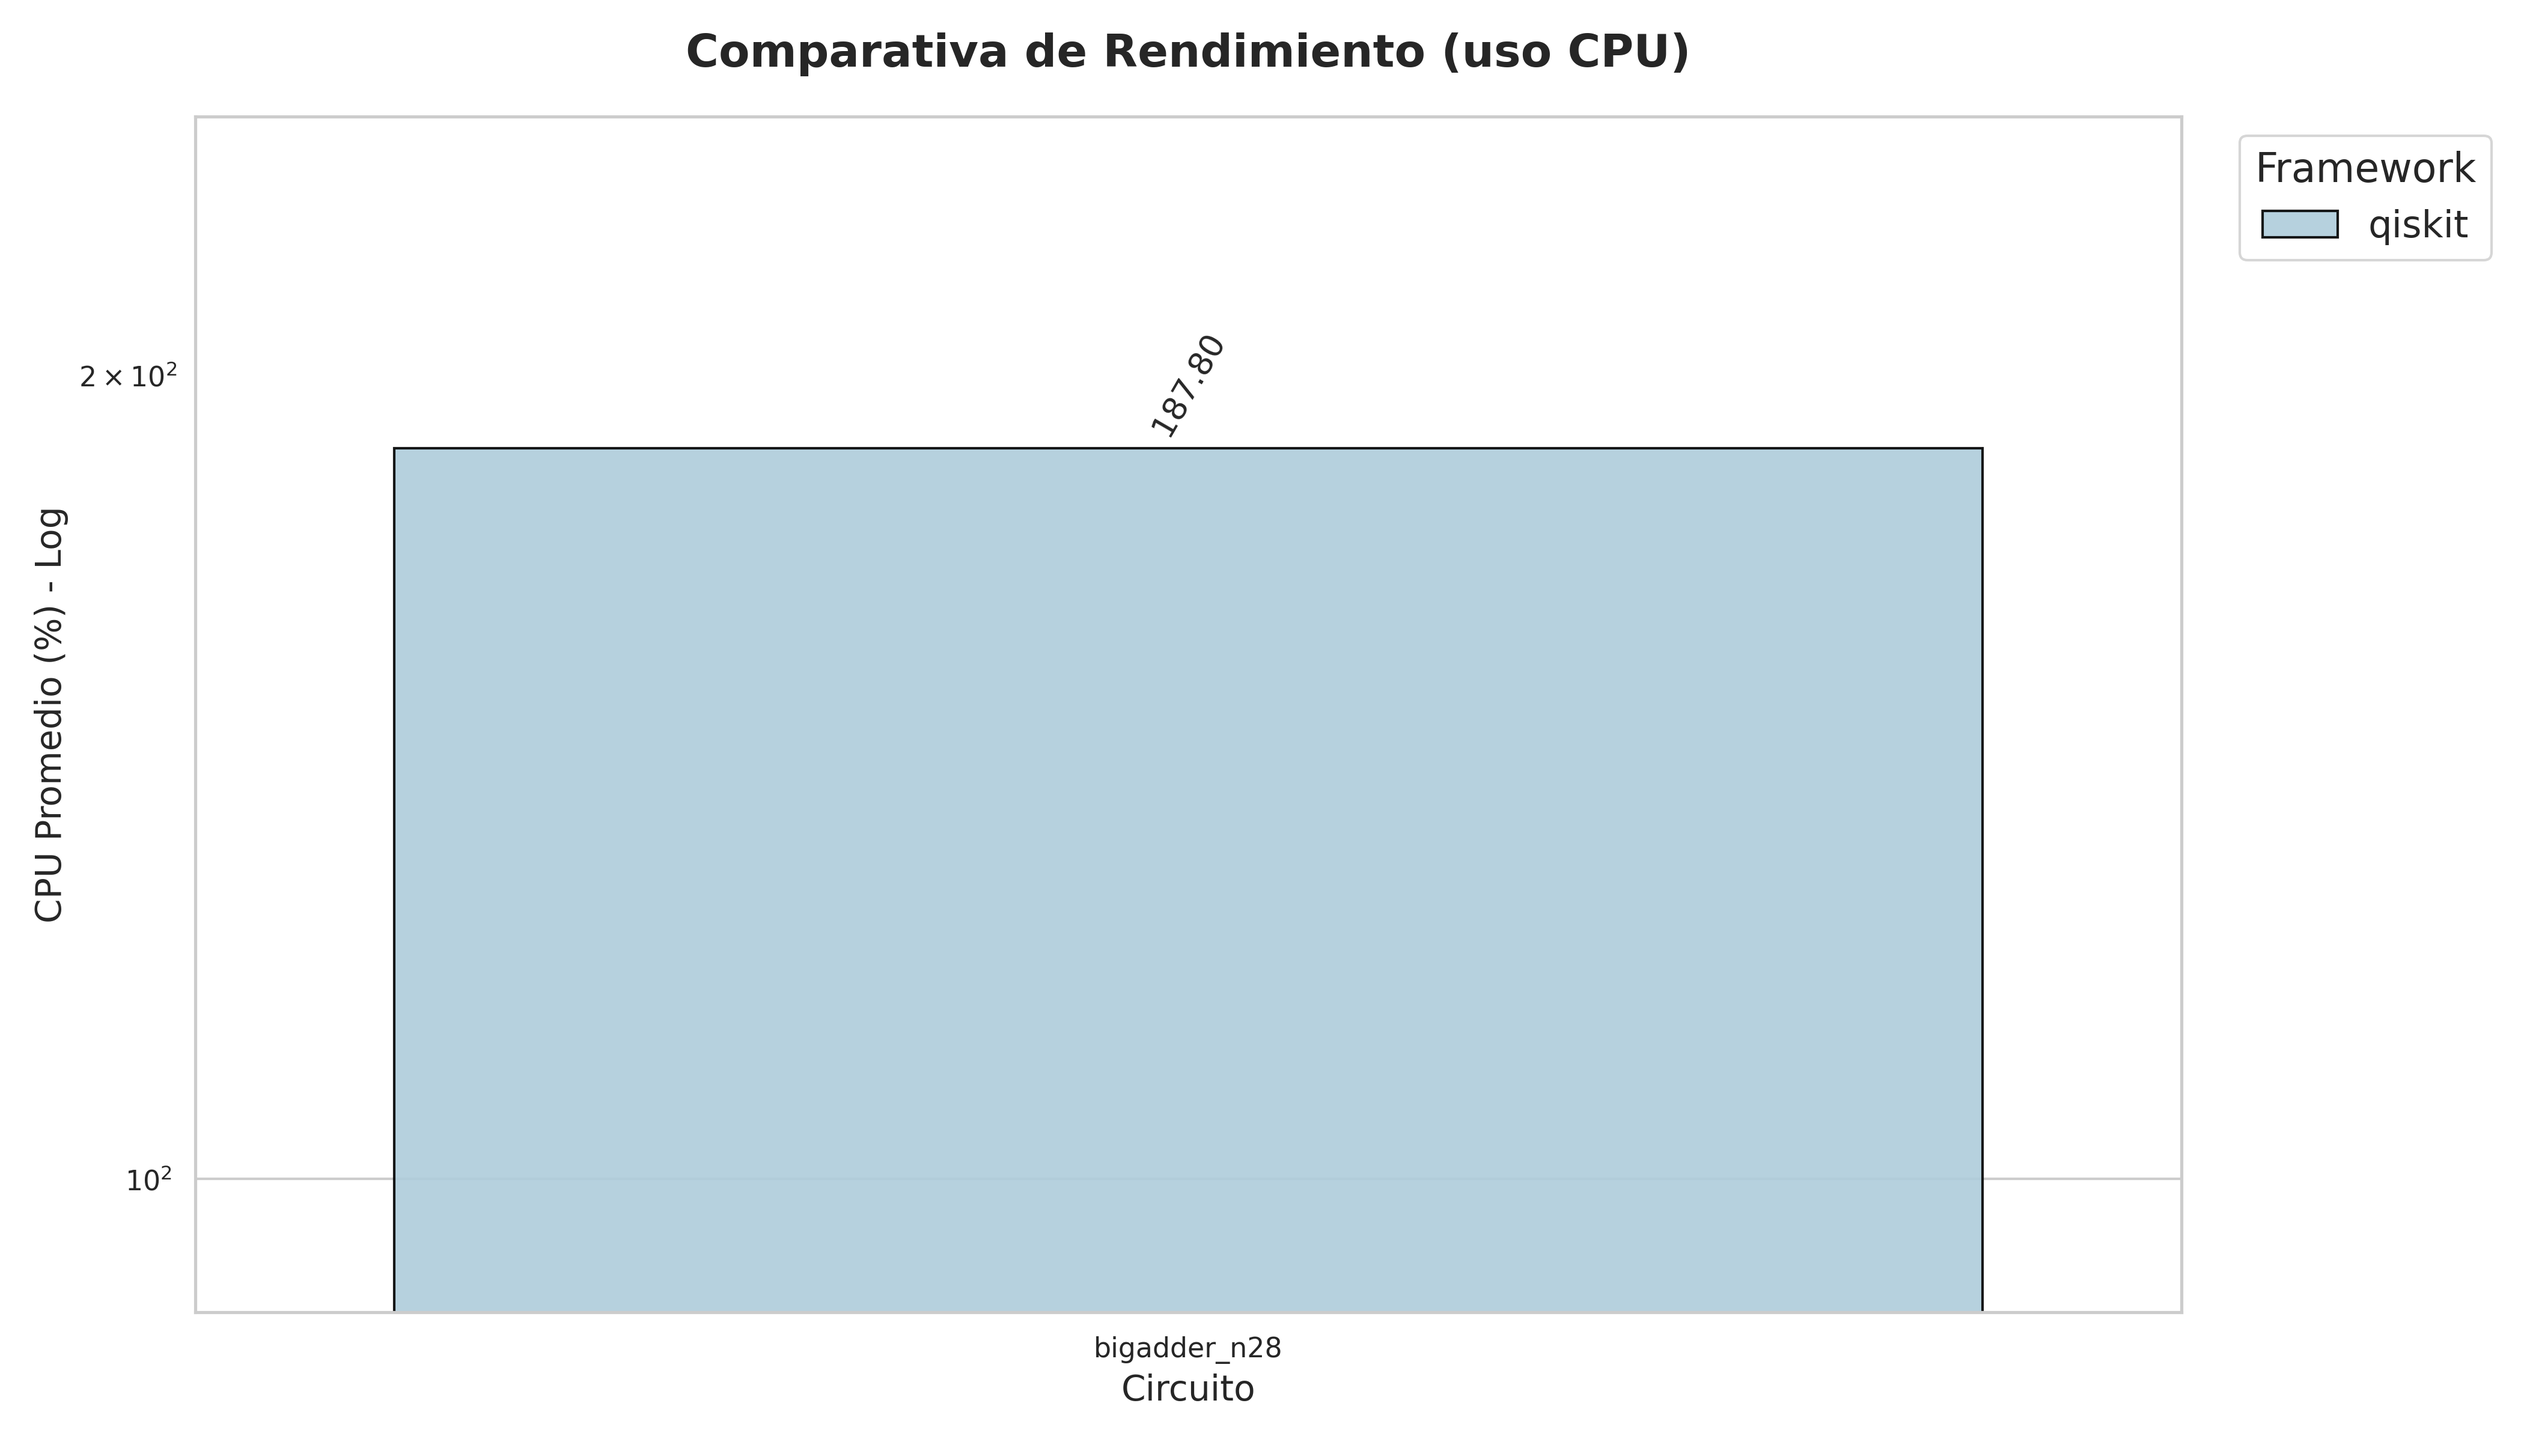
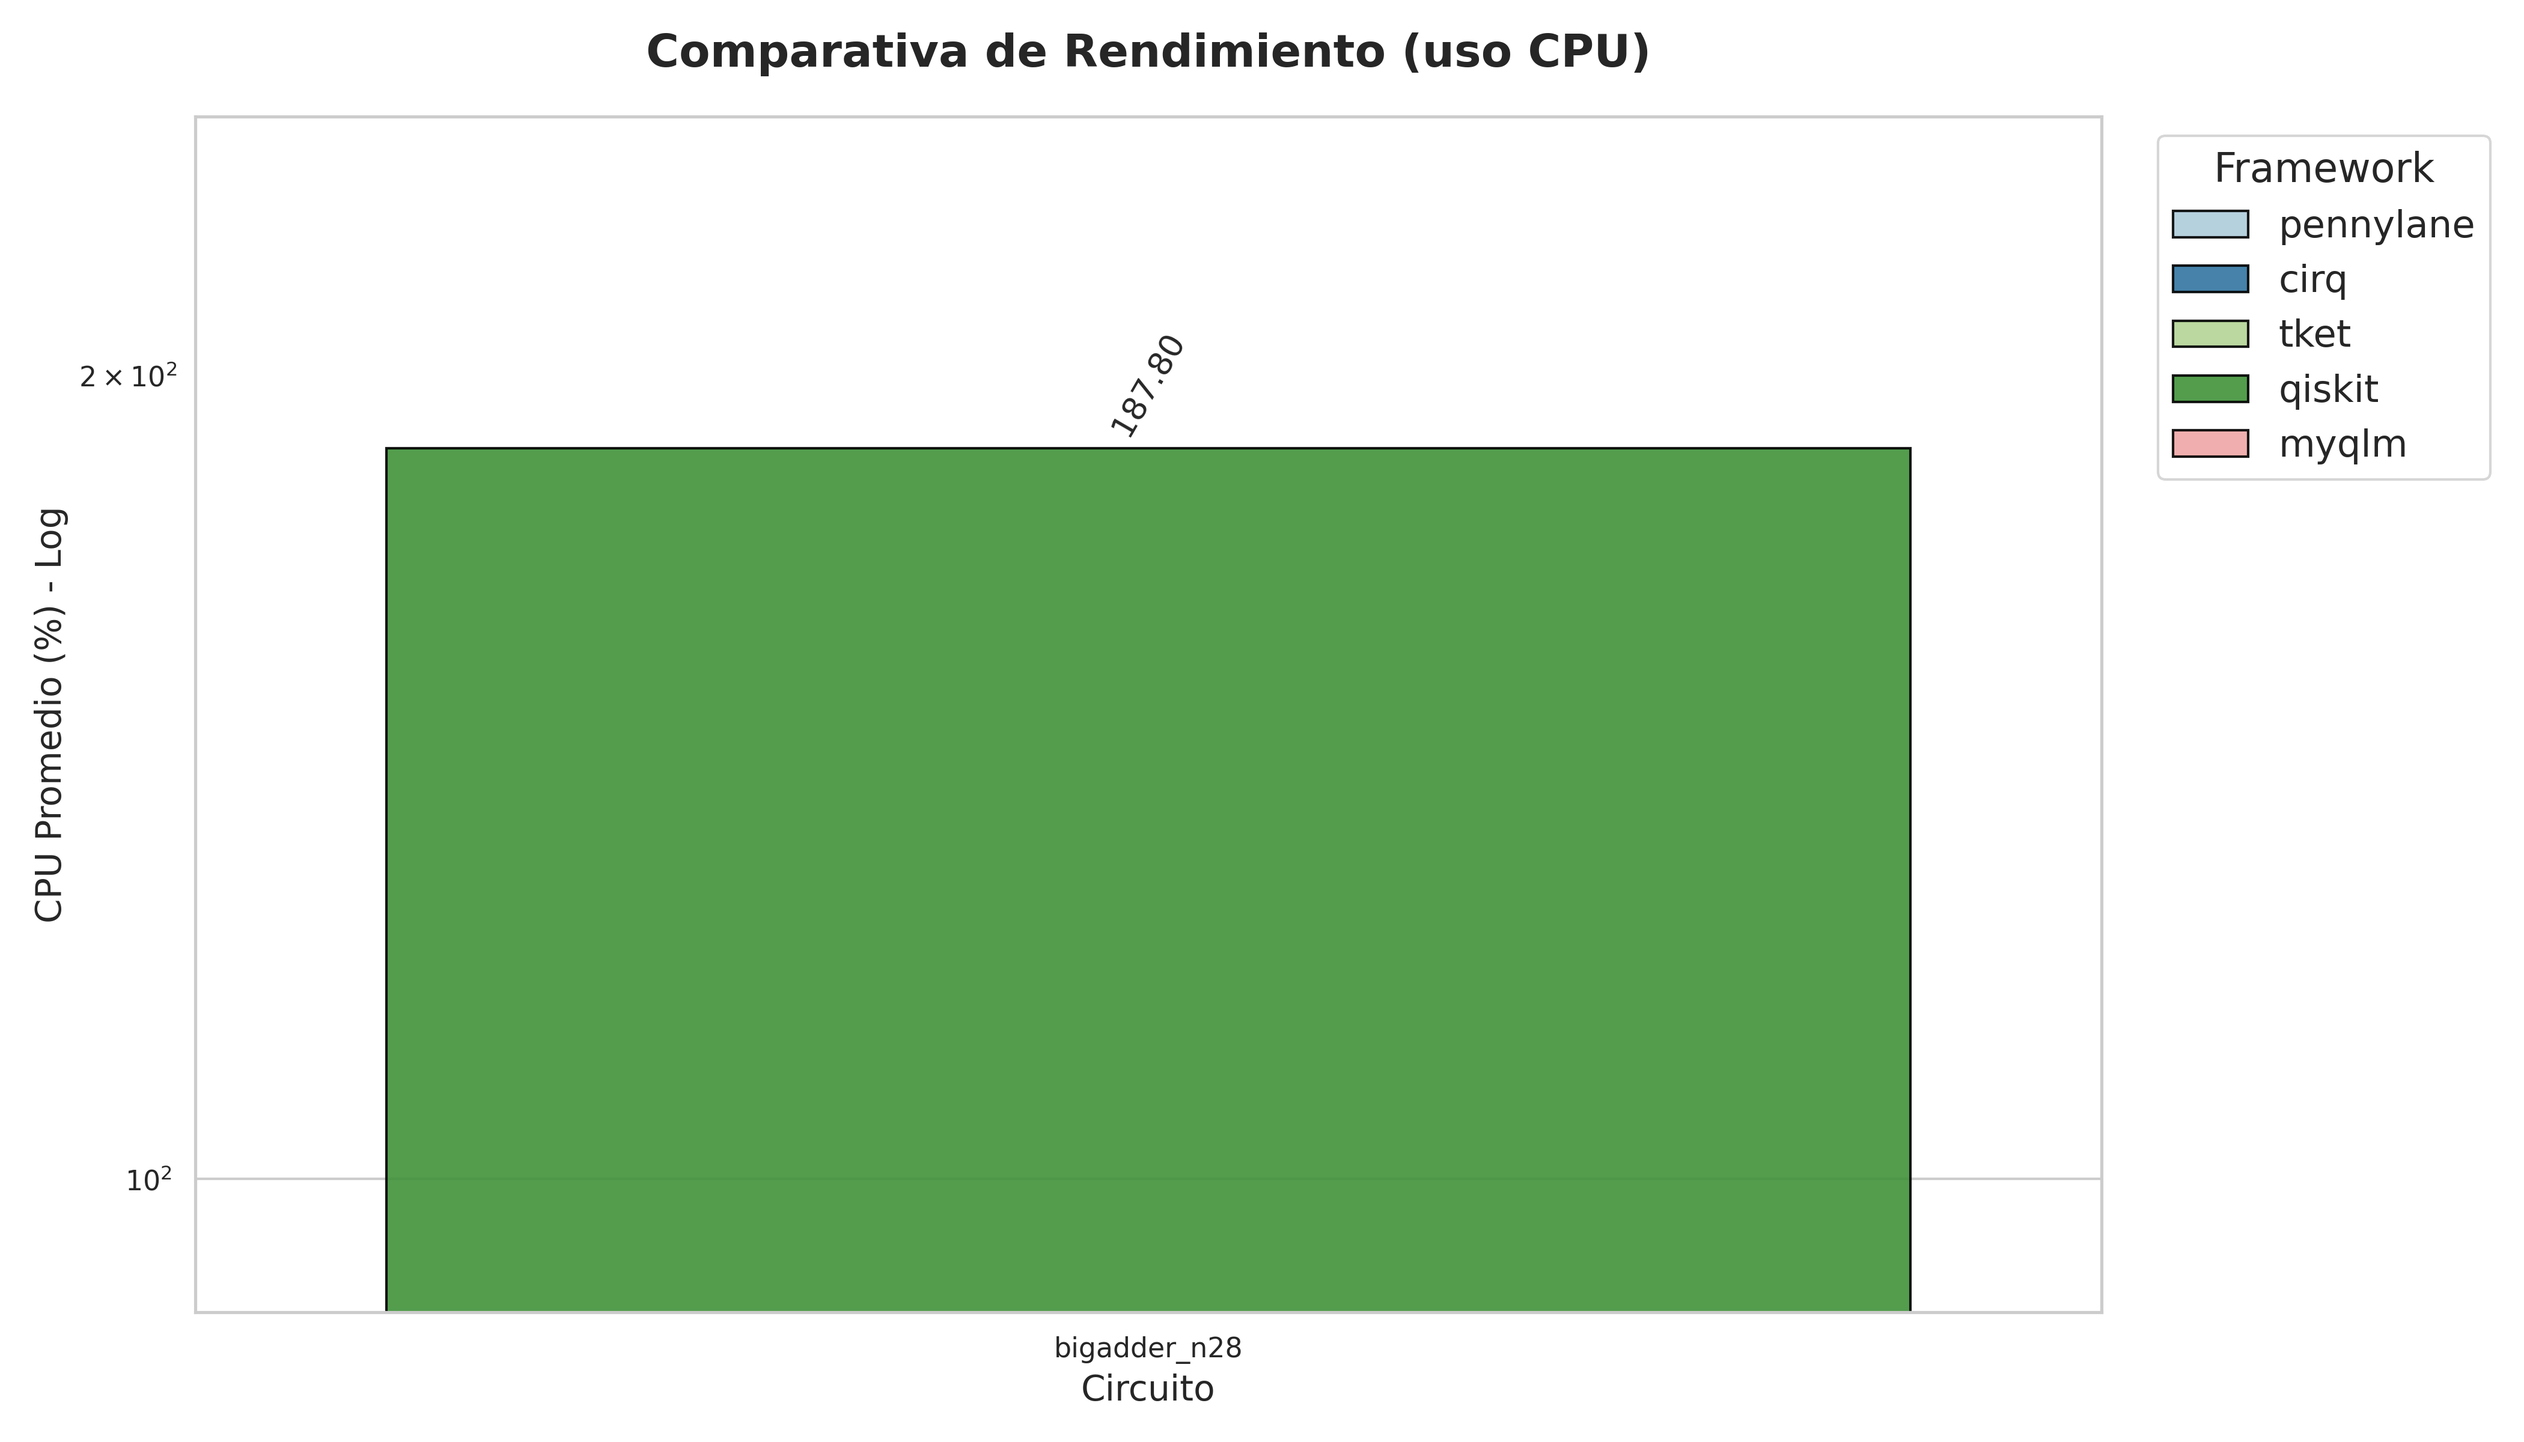
Color en big

diff --git a/graficar_results.py b/graficar_results.py
@@ -14,6 +14,8 @@ OUTPUT_IMAGE_BOXPLOT_RAM = "grafica_boxplot_RAM.png"
 OUTPUT_IMAGE_BOXPLOT_CPU = "grafica_boxplot_CPU.png"
 OUTPUT_IMAGE_GATES = "grafica_gates.png"
 
+ORDERED_FRAMEWORKS = ["pennylane", "cirq", "tket", "qiskit", "myqlm"]
+
 def get_latest_data_time(root_dir):
     """carga de datos de total time"""
     all_data = []
@@ -122,6 +124,7 @@ def plot_time(df):
         x="CIRCUIT",
         y="TIME_MEAN",
         hue="FRAMEWORK",
+        hue_order=ORDERED_FRAMEWORKS,
         errorbar=None,
         palette="Paired",
         edgecolor="black",
@@ -169,6 +172,7 @@ def plot_RAM(df):
         x="CIRCUIT",
         y="RAM_MEAN",
         hue="FRAMEWORK",
+        hue_order=ORDERED_FRAMEWORKS,
         errorbar=None,
         palette="Paired",
         edgecolor="black",
@@ -216,6 +220,7 @@ def plot_CPU(df):
         x="CIRCUIT",
         y="CPU_MEAN",
         hue="FRAMEWORK",
+        hue_order=ORDERED_FRAMEWORKS,
         errorbar=None,
         palette="Paired",
         edgecolor="black",
@@ -268,6 +273,7 @@ def plot_boxplot_time(df):
         x="CIRCUIT",       # Eje X: Circuitos
         y="TIME_MEAN",     # Eje Y: Distribución del tiempo de las 10 iteraciones
         hue="FRAMEWORK",   # Agrupación por color para cada framework
+        hue_order=ORDERED_FRAMEWORKS,
         palette="Paired",  # Misma paleta de colores
         linewidth=1.5,     # Grosor de las líneas de la caja y bigotes
         fliersize=4,       # Tamaño de los puntos para los outliers
@@ -340,7 +346,7 @@ def plot_boxplot_RAM(df):
         x="COMBINED",
         y="RAM_MEAN",
         hue="FRAMEWORK",
-        hue_order=ordered_frameworks,
+        hue_order=ORDERED_FRAMEWORKS,
         palette="Paired",
         dodge=False,
         linewidth=1.8,  # Líneas ligeramente más gruesas para impresión
@@ -413,6 +419,7 @@ def plot_boxplot_CPU(df):
         x="CIRCUIT",       # Eje X: Circuitos
         y="CPU_MEAN",     # Eje Y: Distribución del tiempo de las 10 iteraciones
         hue="FRAMEWORK",   # Agrupación por color para cada framework
+        hue_order=ORDERED_FRAMEWORKS,
         palette="Paired",  # Misma paleta de colores
         linewidth=1.5,     # Grosor de las líneas de la caja y bigotes
         fliersize=4,       # Tamaño de los puntos para los outliers
